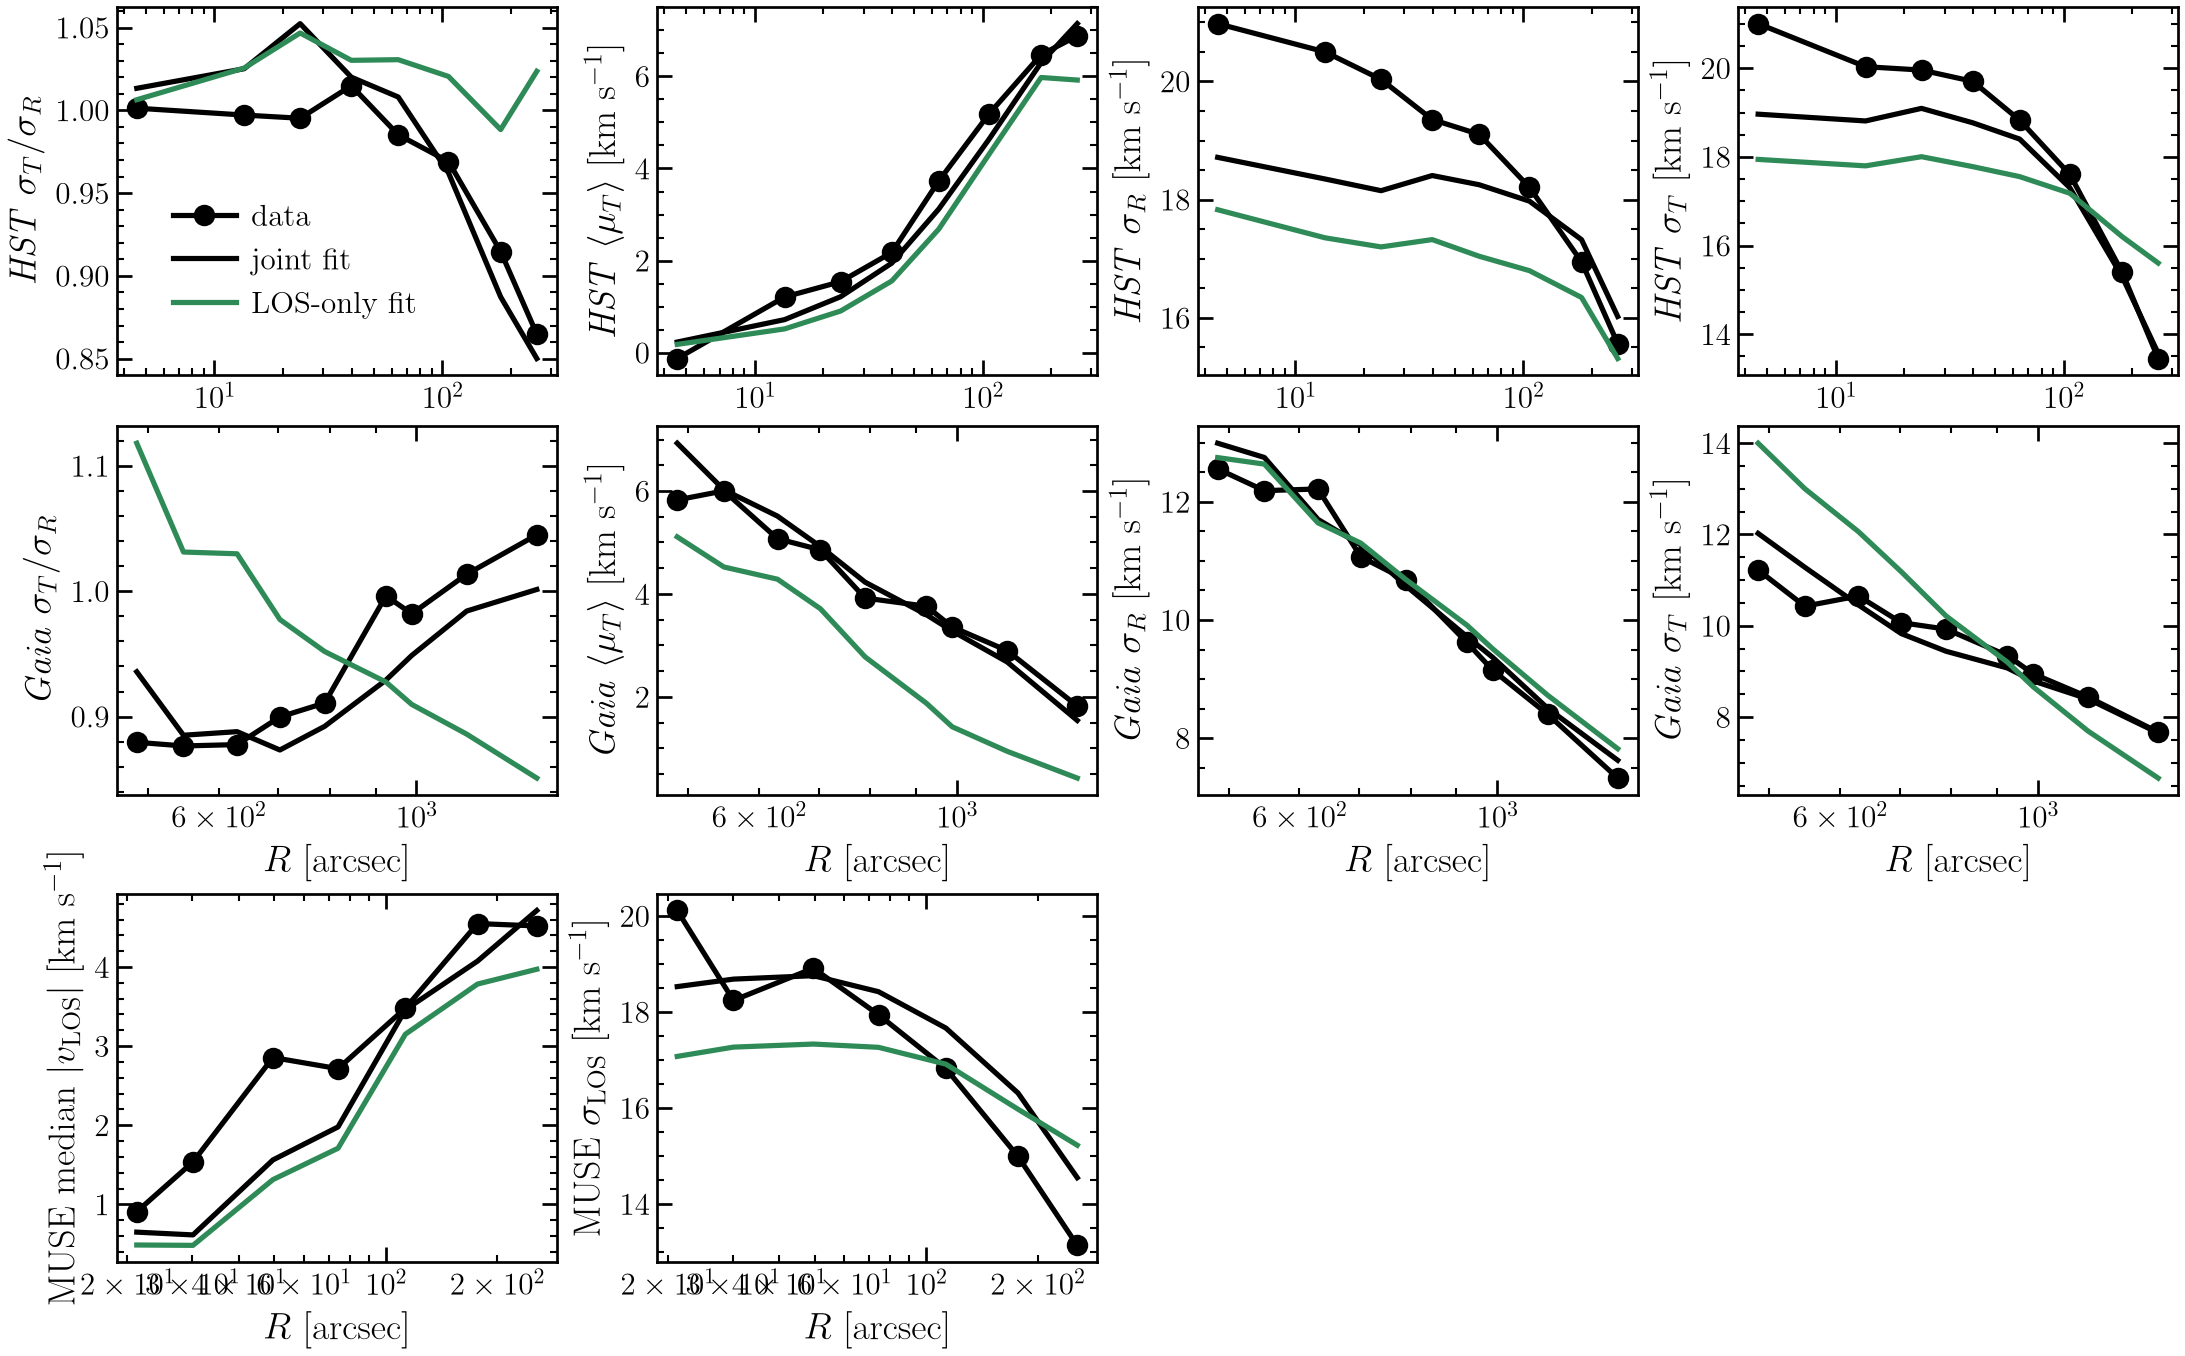
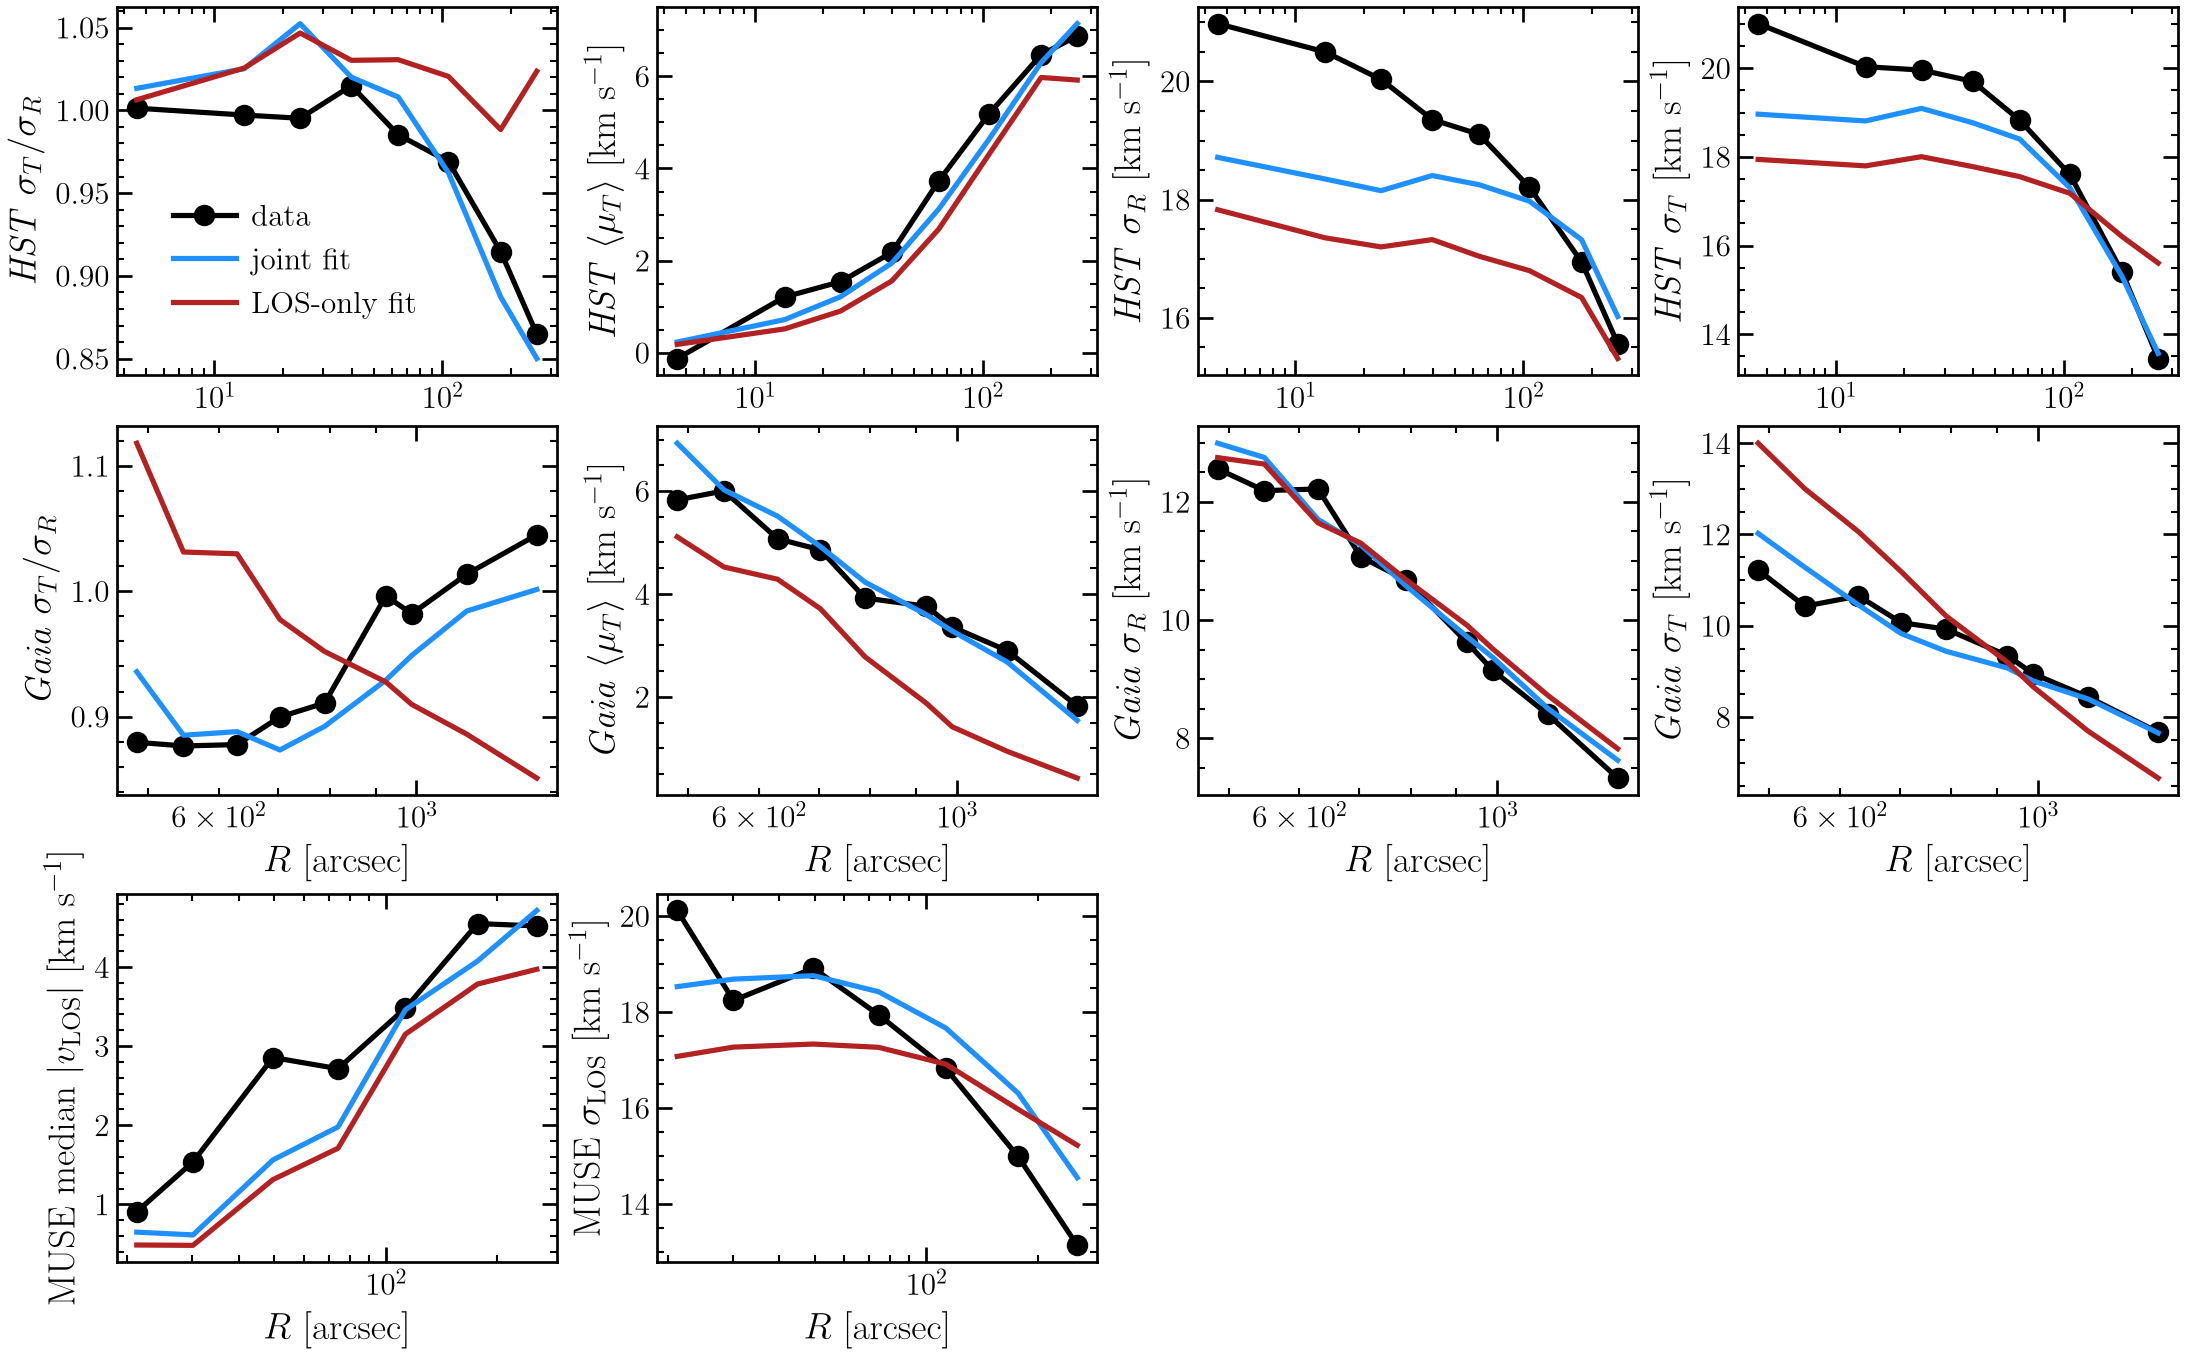
los_only_compare: distinct colours, MUSE tick labels

diff --git a/experiments/fitstat/los_only_compare.py b/experiments/fitstat/los_only_compare.py
@@ -18,7 +18,7 @@ sys.path.insert(0, str(Path(__file__).parent / "paper_figs"))
 from d2_maps import pm_moments  # noqa: E402
 
 P, Z, LOS, JNT, OUT = Path(sys.argv[1]), np.load(sys.argv[2]), sys.argv[3], sys.argv[4], sys.argv[5]
-TAGS = [("data", "data", "k"), ("joint fit", f"model|{JNT}", "C0"), ("LOS-only fit", f"model|{LOS}", "C3")]
+TAGS = [("data", "data", "k"), ("joint fit", f"model|{JNT}", "C1"), ("LOS-only fit", f"model|{LOS}", "C2")]
 
 
 def annuli(R, vals, n=9):
@@ -62,6 +62,7 @@ ax[2, 0].set_ylabel(r"MUSE median $|v_{\rm LOS}|$ [km s$^{-1}$]")
 ax[2, 1].set_ylabel(r"MUSE $\sigma_{\rm LOS}$ [km s$^{-1}$]")
 for c in (0, 1):
     ax[2, c].set_xscale("log")
+    ax[2, c].xaxis.set_minor_formatter(plt.NullFormatter())
 for c in (2, 3):
     ax[2, c].axis("off")
 for a in ax[1]:
